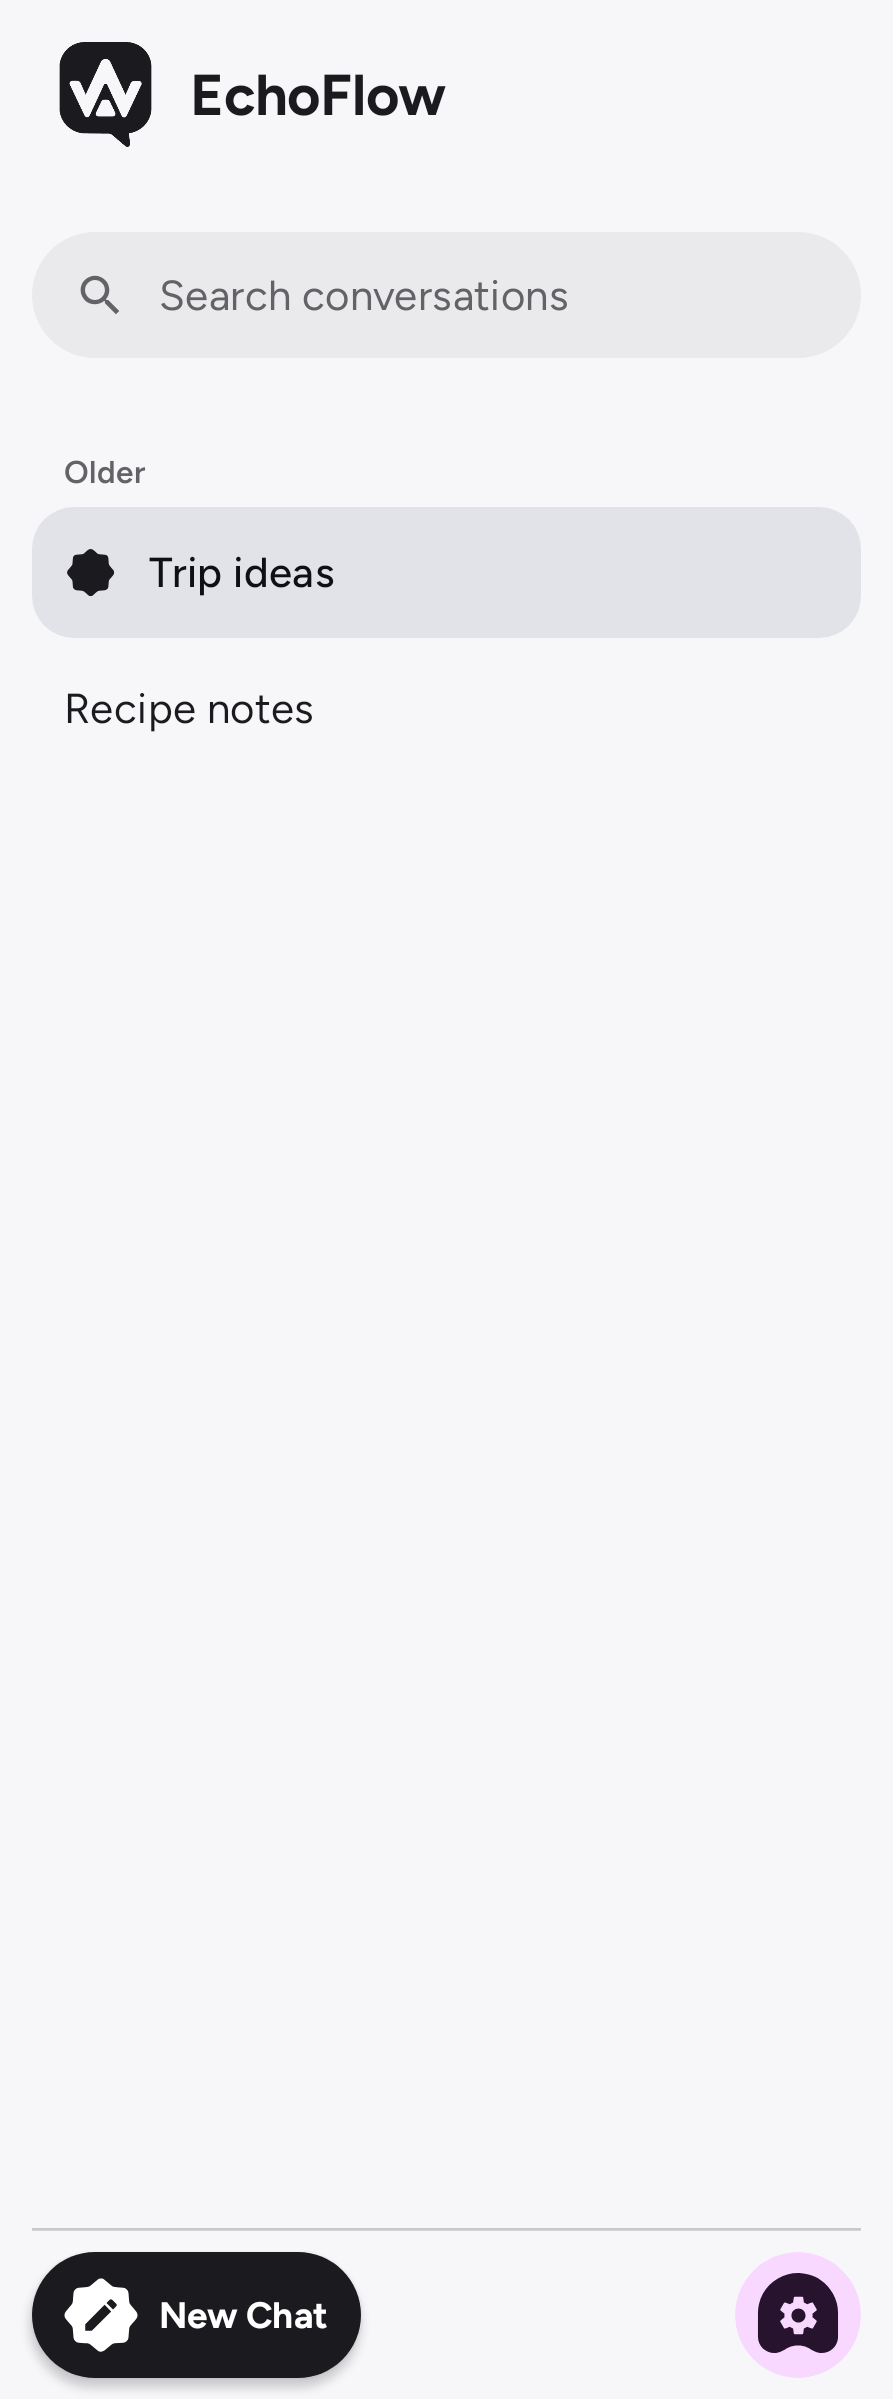
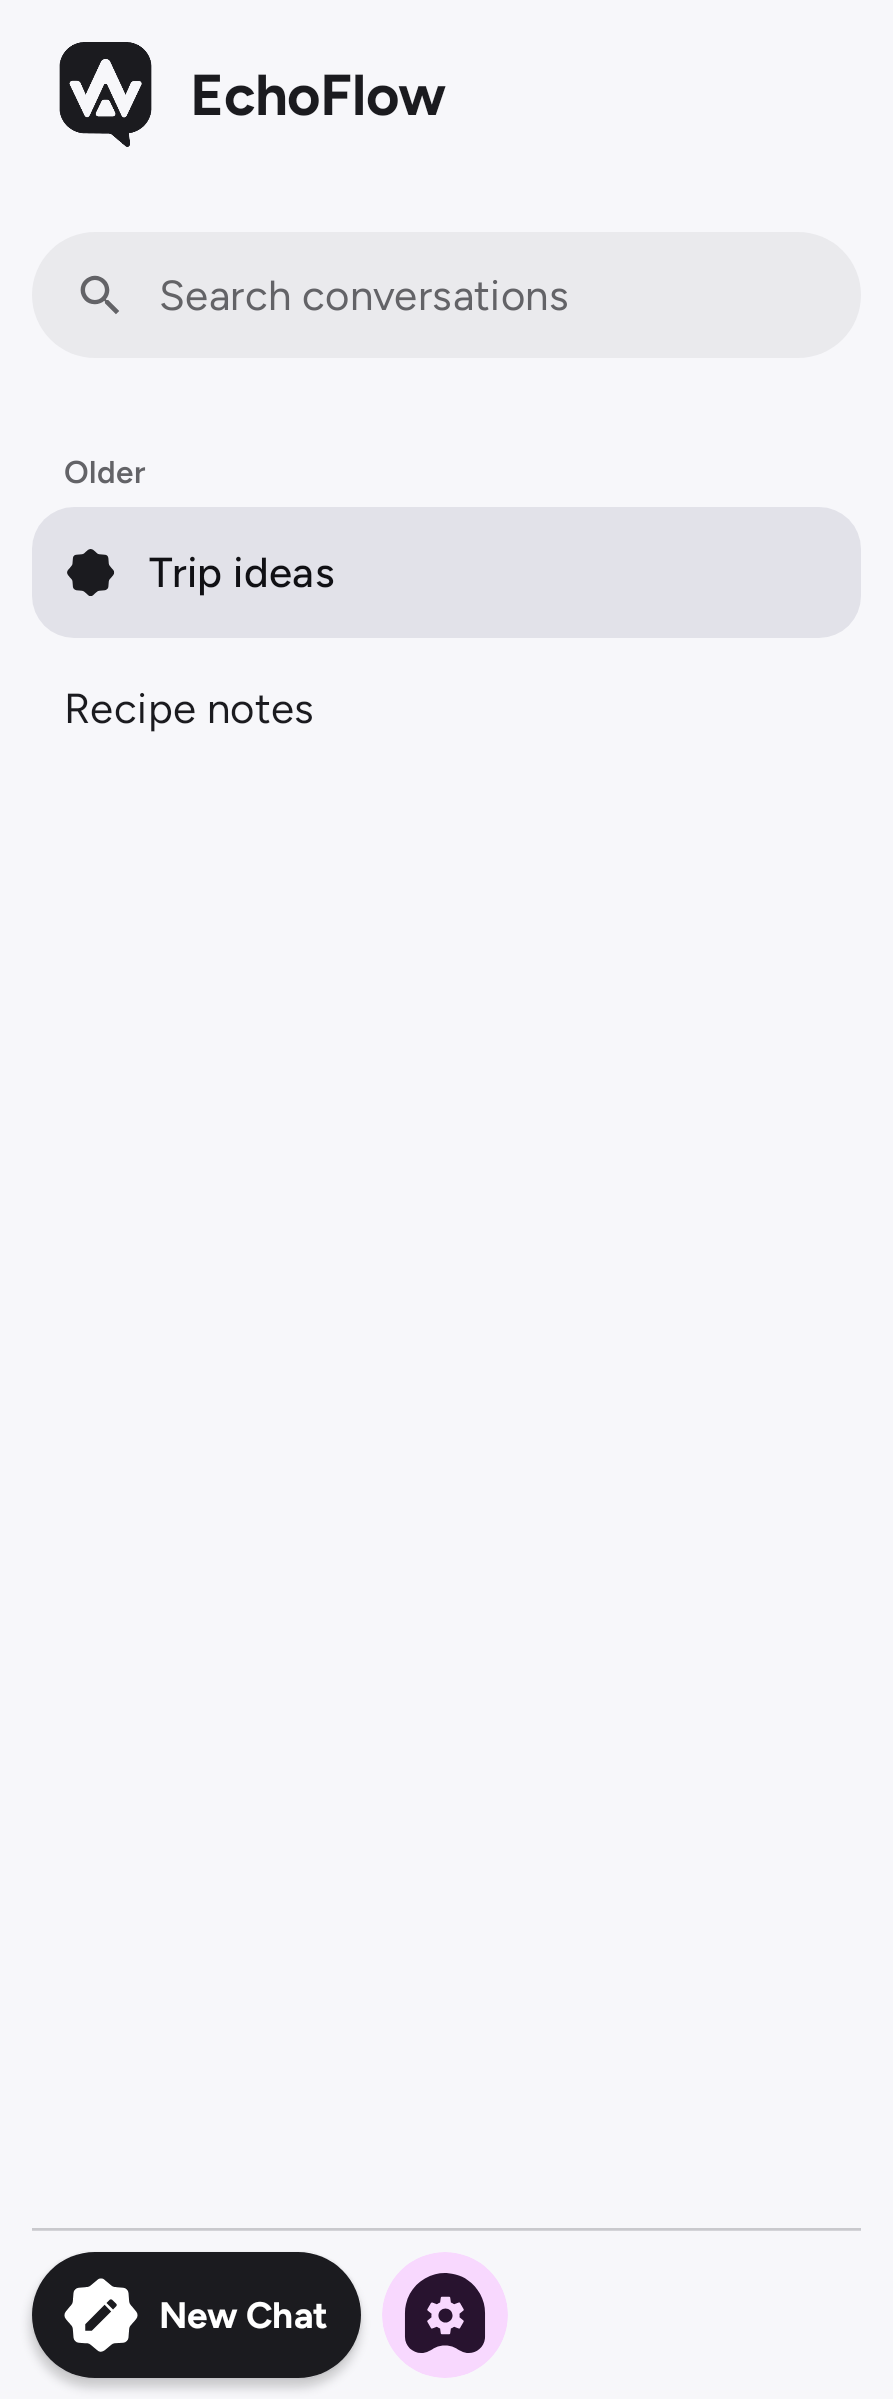
Restore top-bar new button; compact sidebar footer row
- Keep the new-conversation icon in ChatTopBar (redesign is sidebar-only)
- Shrink drawer New Chat to intrinsic width with a max cap and ellipsis
- Tighten footer spacing so New Chat and Settings sit close together

Changed region(s): [[0.4233, 0.9254, 0.5745, 1.0], [0.8163, 0.9254, 0.9675, 1.0]]

diff --git a/app/src/main/java/com/echoflow/ui/components/ChatDrawer.kt b/app/src/main/java/com/echoflow/ui/components/ChatDrawer.kt
@@ -215,7 +215,7 @@ private fun DrawerFooterRow(
 ) {
     Row(
         Modifier.fillMaxWidth(),
-        horizontalArrangement = Arrangement.spacedBy(Spacing.m),
+        horizontalArrangement = Arrangement.spacedBy(Spacing.s),
         verticalAlignment = Alignment.CenterVertically,
     ) {
         val newChatInteraction = remember { MutableInteractionSource() }
@@ -234,9 +234,8 @@ private fun DrawerFooterRow(
             elevation = ButtonDefaults.buttonElevation(defaultElevation = 2.dp, pressedElevation = 0.dp),
             contentPadding = PaddingValues(horizontal = Spacing.m, vertical = Spacing.s),
             modifier = Modifier
-                .weight(1f)
-                .defaultMinSize(minWidth = 1.dp)
                 .heightIn(min = 48.dp)
+                .widthIn(max = 200.dp)
                 .graphicsLayer { scaleX = newChatScale; scaleY = newChatScale }
                 .testTag("drawer_new_chat_button"),
         ) {
@@ -258,7 +257,6 @@ private fun DrawerFooterRow(
                 style = MaterialTheme.typography.labelLarge,
                 maxLines = 1,
                 overflow = TextOverflow.Ellipsis,
-                modifier = Modifier.weight(1f, fill = false),
             )
         }
 

diff --git a/app/src/main/java/com/echoflow/ui/screens/ChatMessages.kt b/app/src/main/java/com/echoflow/ui/screens/ChatMessages.kt
@@ -368,8 +368,10 @@ internal fun ChatTopBar(
     onSelectMode: (AppMode) -> Unit,
     renderingModes: Set<AppMode>,
     onMenu: () -> Unit,
+    onNewChat: () -> Unit,
     modifier: Modifier = Modifier,
 ) {
+    val newLabel = if (mode == AppMode.Imagine) "New creation" else "New conversation"
     CenterAlignedTopAppBar(
         modifier = modifier,
         navigationIcon = {
@@ -387,6 +389,14 @@ internal fun ChatTopBar(
                 renderingModes = renderingModes,
                 modifier = Modifier.widthIn(max = 220.dp),
             )
+        },
+        actions = {
+            ShapedIconButton(
+                onClick = onNewChat, enabled = true, size = 44.dp,
+                restShape = MaterialShapes.Cookie7Sided, pressedShape = MaterialShapes.Sunny,
+                container = MaterialTheme.colorScheme.tertiaryContainer,
+                pulseOnClick = true,
+            ) { Icon(Icons.Default.Create, newLabel, Modifier.size(20.dp), tint = MaterialTheme.colorScheme.onTertiaryContainer) }
         },
         colors = TopAppBarDefaults.centerAlignedTopAppBarColors(containerColor = Color.Transparent),
     )

diff --git a/app/src/main/java/com/echoflow/ui/screens/ChatScreen.kt b/app/src/main/java/com/echoflow/ui/screens/ChatScreen.kt
@@ -97,6 +97,7 @@ fun ChatScreen(
                 onSelectMode = chatViewModel::switchMode,
                 renderingModes = renderingModes,
                 onMenu = onMenuClicked,
+                onNewChat = { chatViewModel.startNewChat() },
             )
 
             // Errors belong to the app, not to a surface: a failure raised in one mode should
